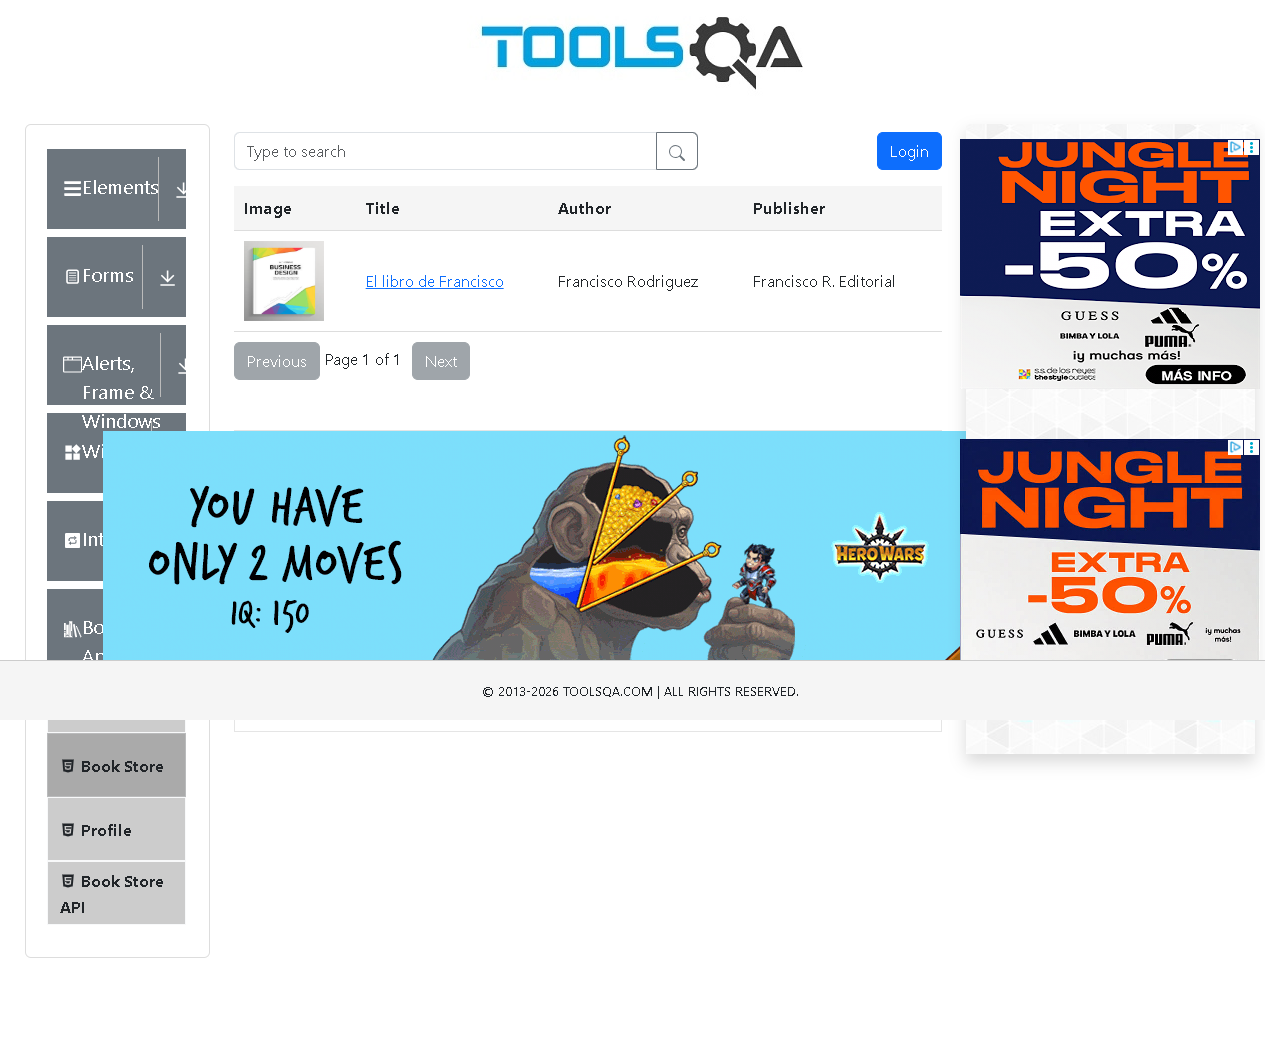
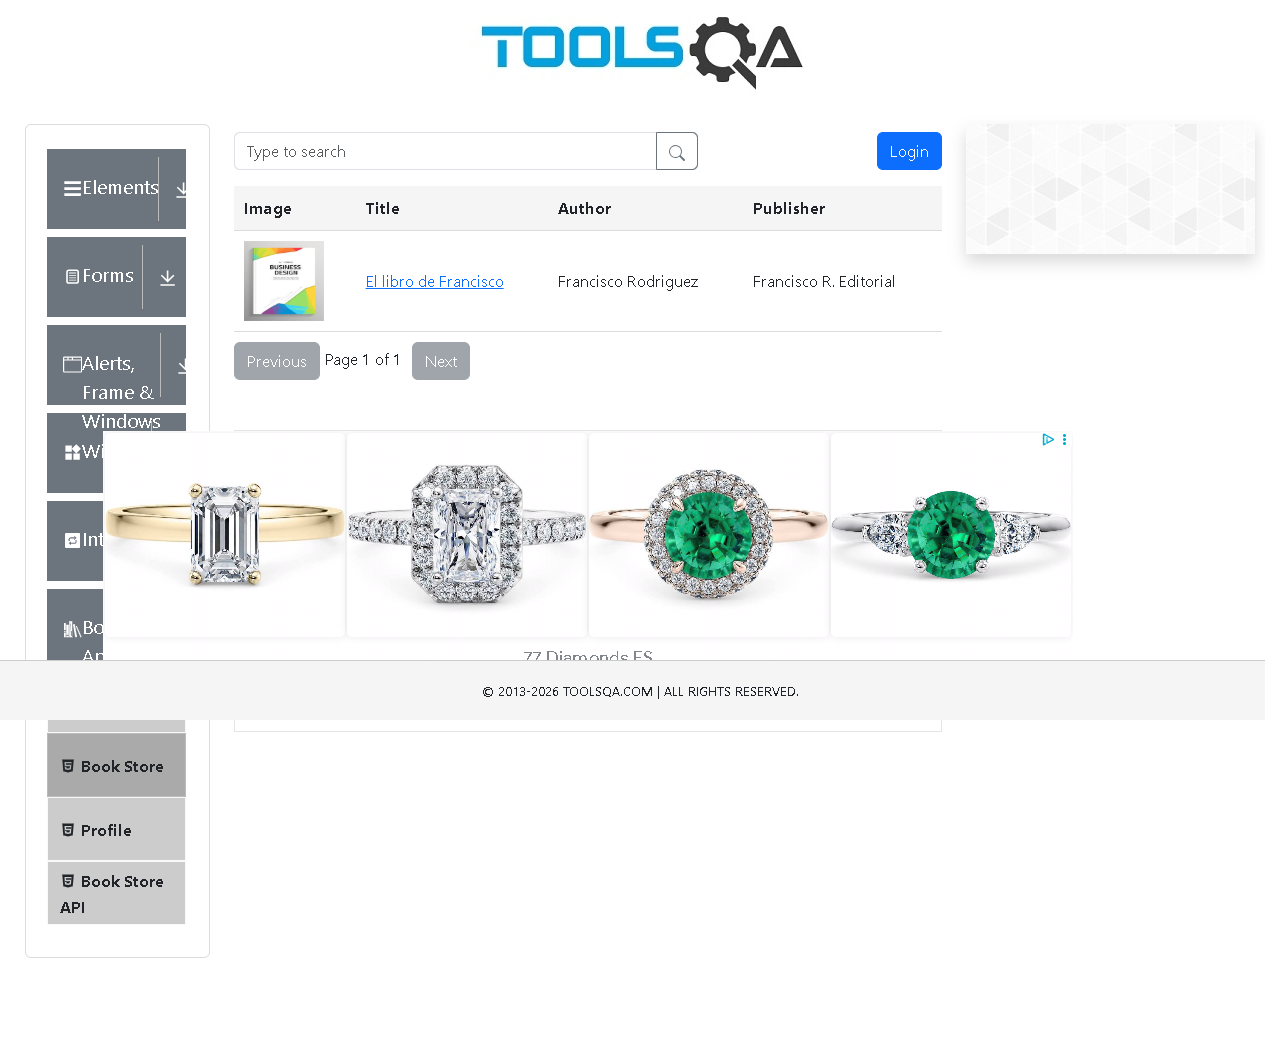
docs: test de login verificado y funcionando en local

Changed region(s): [[0.0617, 0.4055, 1.0, 0.6238], [0.7399, 0.1248, 1.0, 0.3743], [0.7708, 0.6862, 0.9866, 0.7174]]

diff --git a/tests/practicetestautomation/practicetestautomation_login.spec.ts b/tests/practicetestautomation/practicetestautomation_login.spec.ts
@@ -1,48 +1,19 @@
-import {test, expect} from '@playwright/test';
-import { PracticetestLoginPage } from './pageobjects/practicetest_login';
+import { test, expect } from '@playwright/test';
+import { PracticetestLoginPage } from '../../pageobjects/Practicetest_login';
 
-test('login with valid credentials', async ({page}) => {
+test('login with valid credentials', async ({ page }) => {
     const loginPage = new PracticetestLoginPage(page);
 
-    // Aumentamos el timeout a 60 segundos para permitir resolver posibles captchas o verificaciones adicionales de Amazon
-    test.setTimeout(60000); 
-    // Navegacion a la pàgina de login
-    await page.goto('https://practicetestautomation.com/practice-test-login/');
+    // 1. Ir a la página usando el método de tu clase
+    await loginPage.irA();
 
-    // Hacemos clic en el boton de "Sign in" para ir a la pagina de login
-    //await page.locator('#nav-link-accountList').click();
+    // 2. Hacer el login usando el método que ya tiene los selectores (#username, #password, #submit)
+    // El método ya sabe que debe esperar a que los campos aparezcan
+    await loginPage.iniciarLogin('student', 'Password123');
 
-    // Esperamos que la pagina de login cargue correctamente
-    await expect(page).toHaveURL(/.*practice-test-login.*/);
-
-    // Rellenamos el campo de username con un nombre de usuario valido
-    await page.locator('#username').fill('student');
-
-    // Hacemos clic en el boton de "Continuar" para ir al siguiente paso del login
-    //await page.locator('.a-button-input').click();
-
-    // Esperamos que el campo de password sea visible para asegurarnos que la pagina cargo correctamente
-    //await expect(page.locator('#password')).toBeVisible();
-
-    // Rellenamos el campo de password con una contraseña valida
-    await page.locator('#password').fill('Password123');
-
-    // Hacemos clic en el boton "submit" para completar el proceso de login
-    await page.locator('#submit').click();
-
-    // Esperamos que la pagina de inicio cargue correctamente despues del login exitoso
-    await expect(page).toHaveURL('https://practicetestautomation.com/logged-in-successfully/');
-
-    // 5 segundos para resolver cualquier posible captcha o verificacion adicional 
-    // que se pueda solicitar despues del login
-    await page.waitForTimeout(3000); 
-
-    // Validamos que el nombre del usuario logueado sea visible en la pagina de inicio, lo que indica que el login fue exitoso
-    await expect(page.locator('.has-text-align-center')).toHaveText('Congratulations student. You successfully logged in!');
-
-    await page.close();
-    
-})  
+    // 3. Validar el éxito
+    await expect(page).toHaveURL(/.*logged-in-successfully.*/);
+});
 
 
 
